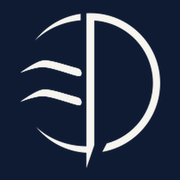
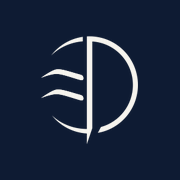
Icona dell'app: rimessa quella originale
Il logo non era il punto. Il parametro di versione cambia perche' Safari
riscarichi il file giusto.

Changed region(s): [[0.1111, 0.0556, 0.9167, 0.9444], [0.1944, 0.6944, 0.25, 0.75], [0.1944, 0.1944, 0.2222, 0.2222]]

diff --git a/index.html b/index.html
@@ -8,7 +8,7 @@
     <meta property="og:site_name" content="GENYON" />
     <meta name="twitter:title" content="GENYON" />
     <link rel="icon" href="/favicon.png" />
-    <link rel="apple-touch-icon" href="/apple-touch-icon.png?v=3" />
+    <link rel="apple-touch-icon" href="/apple-touch-icon.png?v=4" />
     <link rel="manifest" href="/manifest.webmanifest" />
     <meta name="apple-mobile-web-app-title" content="GENYON" />
     <meta name="apple-mobile-web-app-capable" content="yes" />
